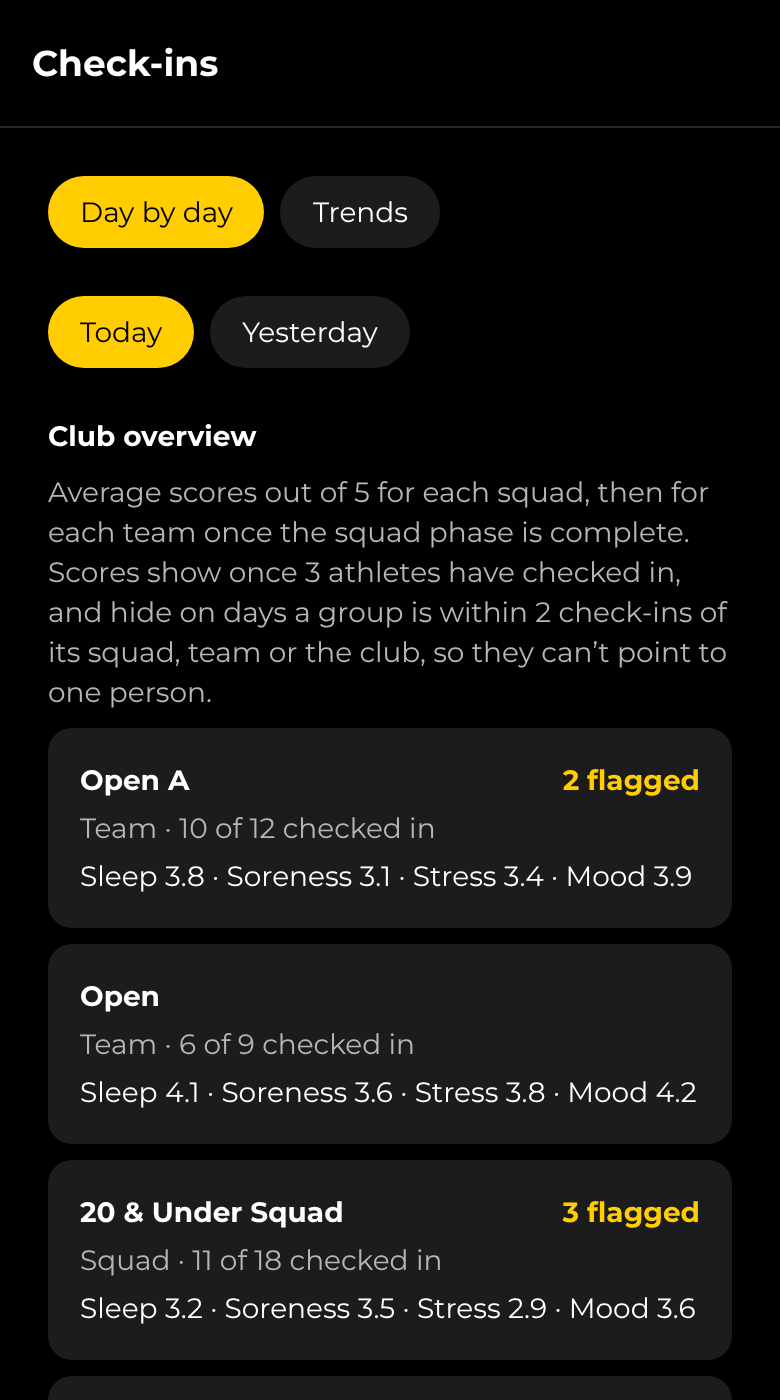
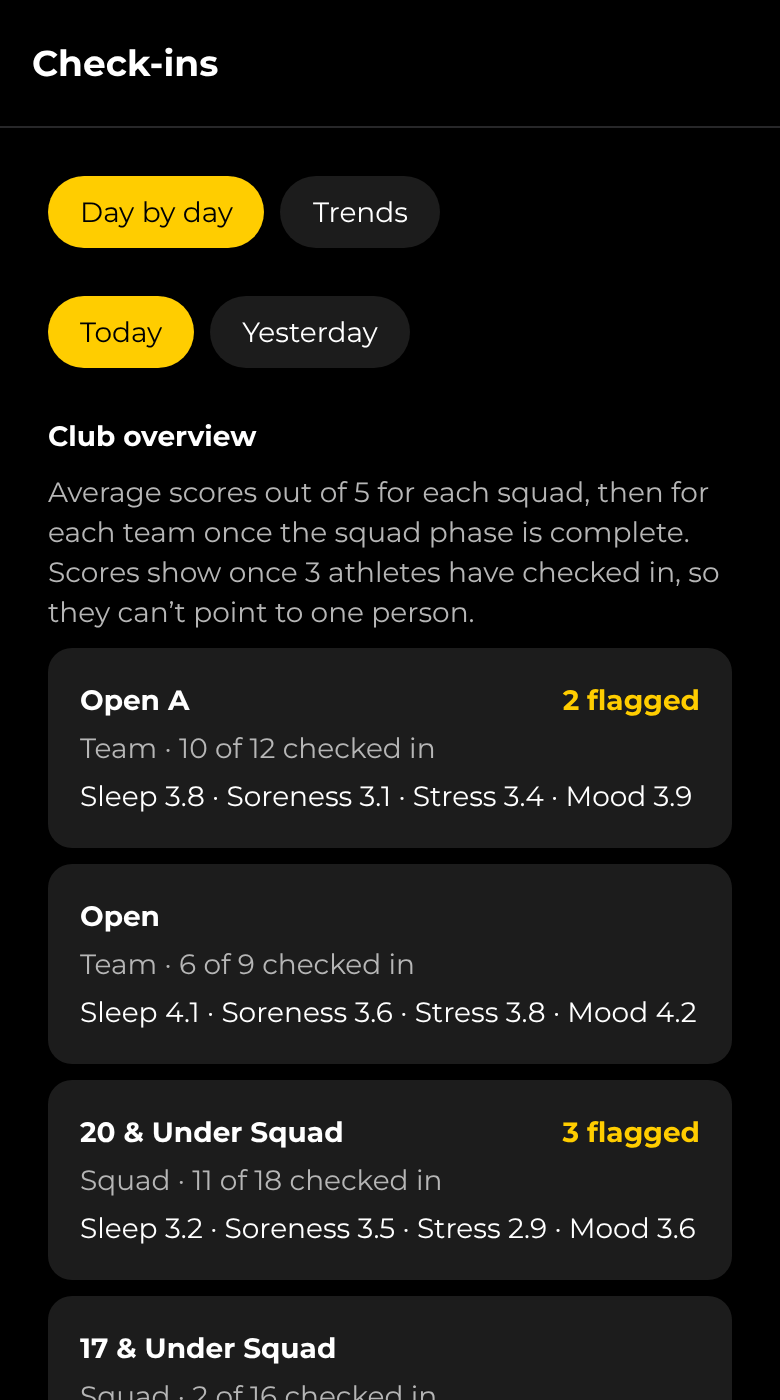
Drop the overlapping-group rule for check-in averages
Matt: an athlete is in one team at a time, and working out one athlete's
scores from two groups' averages would take more effort than anyone is
likely to spend. Averages now show whenever 3 or more athletes checked in.

Claude-Session: https://claude.ai/code/session_017iRg5xgsUwkcAV3Uouducz

Changed region(s): [[0.0615, 0.3993, 0.9538, 1.0]]

diff --git a/src/app/check-ins/index.tsx b/src/app/check-ins/index.tsx
@@ -125,7 +125,7 @@ export default function CheckInsScreen() {
                 {usesSquads
                   ? 'Average scores out of 5 for each squad, then for each team once the squad phase is complete.'
                   : 'Average scores out of 5 for each team.'}{' '}
-                Scores show once 3 athletes have checked in, and hide on days a group is within 2 check-ins of its squad, team or the club, so they can’t point to one person.
+                Scores show once 3 athletes have checked in, so they can’t point to one person.
               </ThemedText>
               {checkInOverview?.map((g) => {
                 const team = teams.find((t) => t.id === g.team_id);

diff --git a/src/components/trend-chart.tsx b/src/components/trend-chart.tsx
@@ -90,8 +90,7 @@ export function CheckInTrends({ days }: { days: CheckInTrendDay[] }) {
       <ThemedText type="small" themeColor="textSecondary">
         Averages out of 5, each day covering that day and the two before it. The red line is{' '}
         {FLAG_AT}: a score at or below it flags an athlete. Scores show once at least 3 athletes
-        checked in over those three days, and hide when a related group is within 2 of this one.
-        Tap a day to see its numbers.
+        checked in over those three days. Tap a day to see its numbers.
       </ThemedText>
 
       <View style={styles.dates}>

diff --git a/docs/user-guide.md b/docs/user-guide.md
@@ -1046,9 +1046,8 @@ show, and count, only once a parent or guardian has given consent for their chec
 - **Trends** graphs the group's average sleep, soreness, stress and mood over 2 weeks, 4 weeks or
   3 months, with the number who checked in each day. Each day's score averages that day and the
   two before it, so a small group whose athletes don't check in every day still gets a line. A day
-  shows scores once at least 3 athletes checked in over those three days, and hides them when
-  the club, the squad or one of its teams is within 2 check-ins of the group, so one person can
-  never be worked out. The red line is 2, the score that flags an athlete. Tap a day to see its
+  shows scores once at least 3 athletes checked in over those three days, so no one athlete's
+  answers show. The red line is 2, the score that flags an athlete. Tap a day to see its
   numbers in every chart, and use the chips to switch group.
 
 <img src="user-guide/check-ins-coach.png" width="210" alt="Coach's day-by-day check-ins">
@@ -1332,10 +1331,9 @@ also coaches or manages a squad or team can choose **A squad or team** to messag
 complete, plus how many checked in and how many are flagged. **Trends** graphs the
 averages for one group or the whole club, each day averaging that day and the two before it.
 Scores only show once at least 3 athletes in a group have checked in (over the three days, in
-Trends), and a group's scores hide on any day it is within 2 check-ins of the club, its squad or
-one of its teams, so subtracting one group from another can't point to one person. Athletes under
-18 count only once a parent or guardian has given consent for their check-ins. Individual answers
-are only for the athlete, their guardians and their coaches.
+Trends), and the overview never says who checked in, so the scores can't point to one person.
+Athletes under 18 count only once a parent or guardian has given consent for their check-ins.
+Individual answers are only for the athlete, their guardians and their coaches.
 
 <img src="user-guide/check-ins-overview.png" width="210" alt="Committee check-in overview">
 <img src="user-guide/check-ins-club-trends.png" width="210" alt="Whole-club check-in trends">
@@ -2367,7 +2365,7 @@ once saved, only replaced or removed, and anyone who gets it wrong five times in
 | Committee checks date   | Everyone signed in. Only admins change it, and only to bring it forward; who changed it and when is kept. |
 | Messages                | The people they were sent to, the sender, and admins. Guardians of athletes under 18 get a copy of every message sent to their athlete, and of every message their athlete sends as a captain. Guests don't get messages; physios get messages sent to the Physio role and to their squads and teams, and whole-club messages only if an admin turns that on. |
 | Read receipts           | The sender and admins.                                                                                                      |
-| Daily check-in answers and notes | The athlete, their guardians and their coaches. For an athlete under 18, their coaches only once a parent or guardian consents, and until then their check-ins count in no average. The committee, physios and admins see only group averages, hidden below 3 check-ins (over three days, in Trends) or when two groups differ by 1 or 2. |
+| Daily check-in answers and notes | The athlete, their guardians and their coaches. For an athlete under 18, their coaches only once a parent or guardian consents, and until then their check-ins count in no average. The committee, physios and admins see only group averages, hidden below 3 check-ins (over three days, in Trends). |
 | Injuries and documents  | For an athlete under 18 whose parents haven't given consent for injuries: only the athlete, their guardians and admins. Otherwise the athlete, their guardians, their coaches, the physios who look after them (the Head Physio and physios in their squad or team), the committee and admins. Managers don't see injuries. Whoever takes attendance (coaches, managers, the committee and admins) sees only that an athlete is **Injured** and their expected return date, whatever the consent. Only the committee member or admin accepting a clearance can share its documents, while it waits for them; everyone else views them in the app. |
 | Who opened injury documents | The athlete, their guardians and admins: every view and share, by whom, their role and when, and each photo consent. |
 | Who has viewed a child's records | For an athlete under 18: their verified parents or guardians (until the athlete turns 18) and admins. Lists every time someone other than the athlete or their guardians opened the athlete's injuries, injury documents, check-ins, game goals, season KPIs or member record. Opening a child's records is recorded whoever you are; nobody can switch it off or delete entries by hand, and old entries are removed only under the club's Keeping records settings. |
@@ -2597,9 +2595,7 @@ Working With Children Check, and another admin must do it.
   stays on your to-do list until you record telling the governing body in writing.
 - **Check-ins are only ever averages.** The committee, physios and admins never see who checked in
   or any one athlete's answers, only a group's average scores, and only once at least 3 athletes in
-  the group have checked in. A group's scores also hide on any day another group it overlaps with
-  (the club, its squad or one of its teams) is within 2 check-ins of it, so subtracting one from
-  the other can't single anyone out.
+  the group have checked in.
 - **Record views are logged.** Every time someone other than a child or their guardians opens an
   under 18's injuries, injury documents, check-ins, game goals, season KPIs or member record, it's recorded.
   Admins see the list on the child's member page, and parents and guardians on their home screen.
